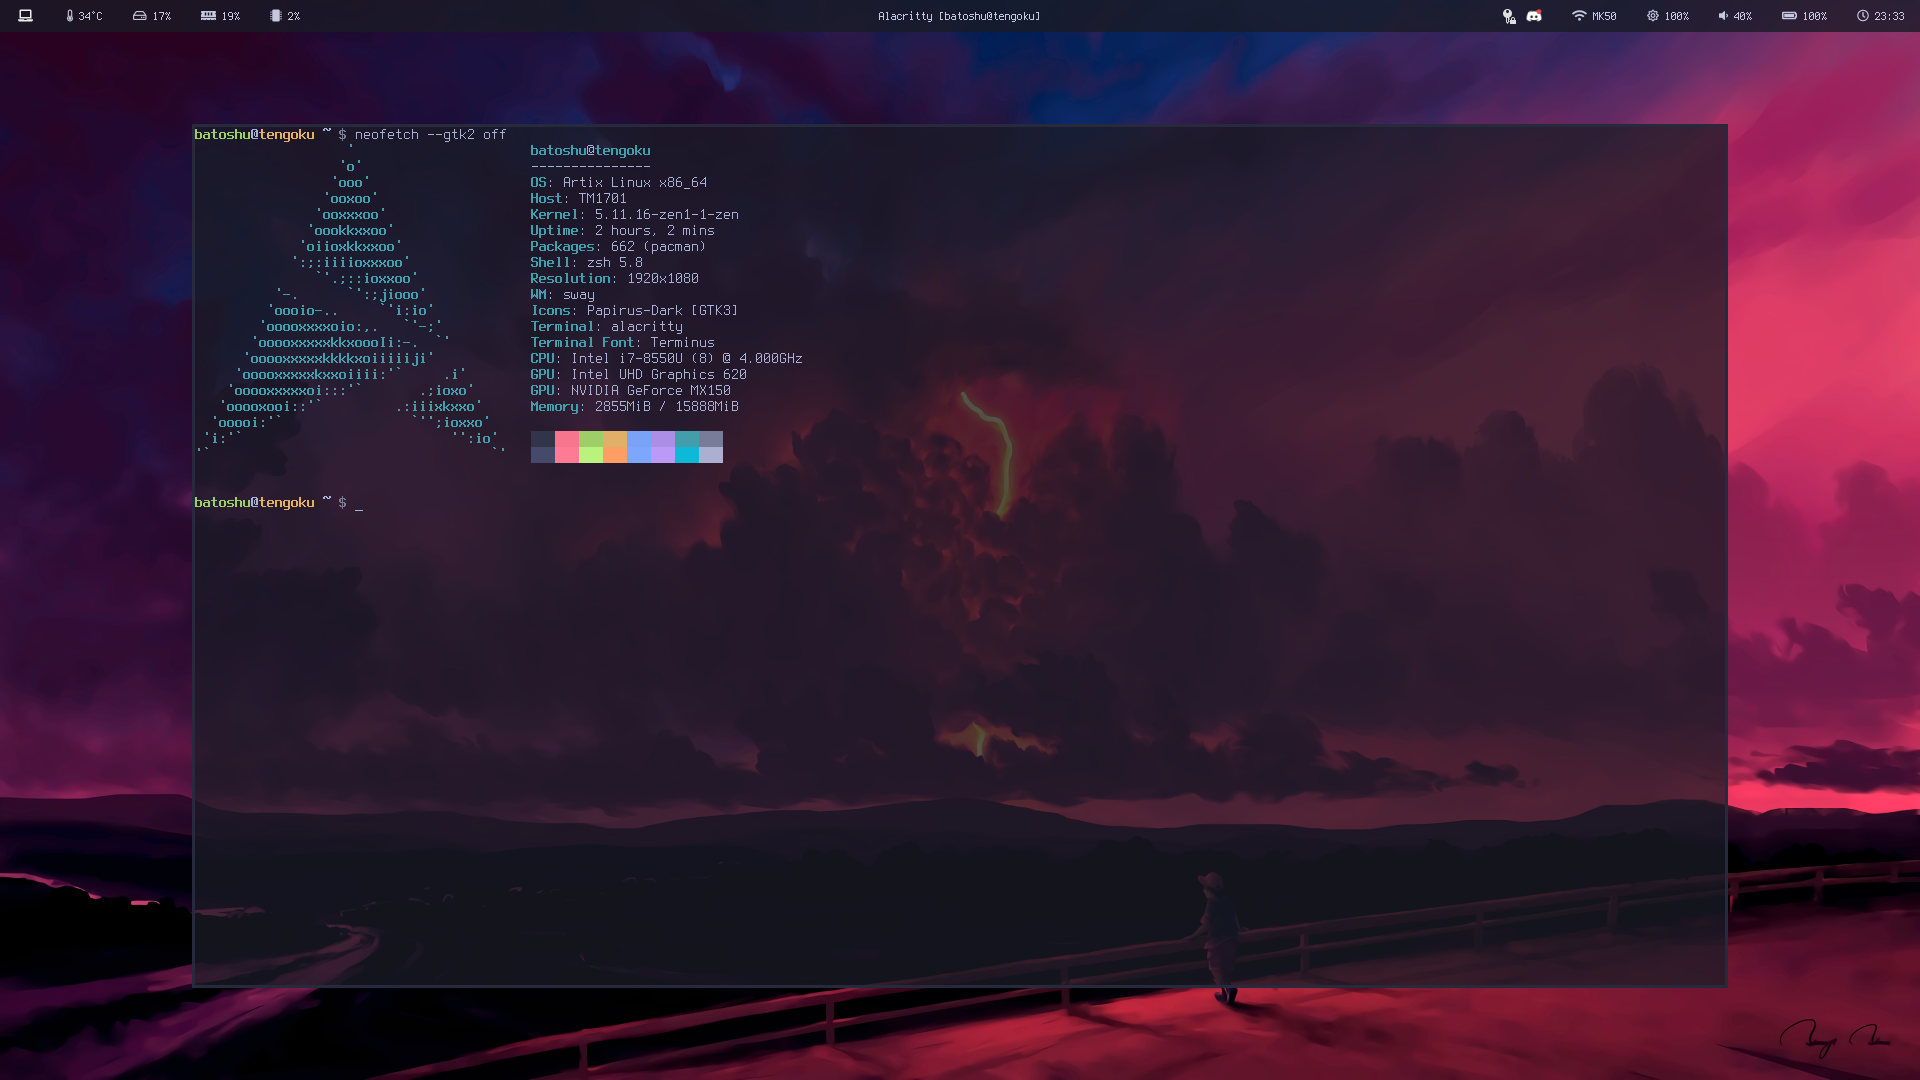
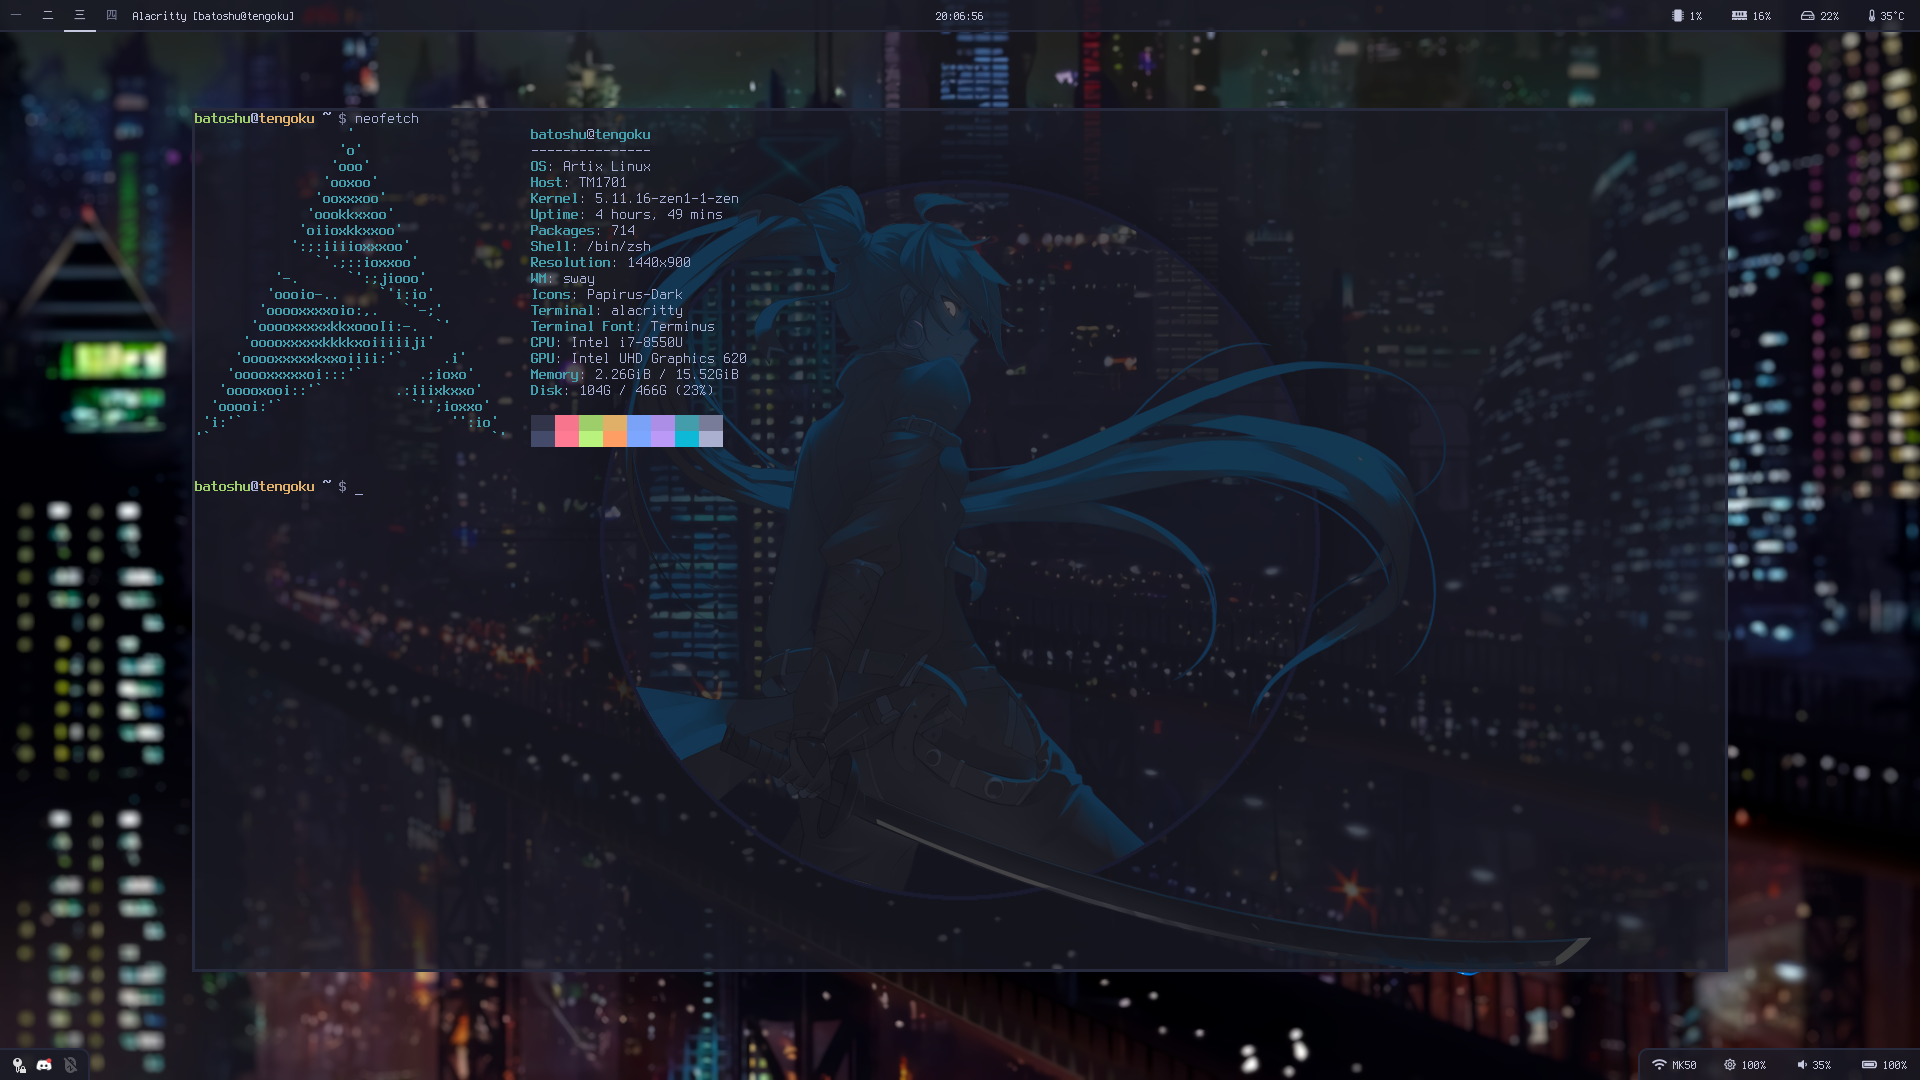
Wallpaper change

diff --git a/README.md b/README.md
@@ -61,4 +61,4 @@ papirus-icon-theme
 `linux-zen`
 
 # Wallpaper
-[Source](https://www.deviantart.com/bisbiswas/art/Storm-On-The-Way-871209944)
+[This](https://www.pixiv.net/en/artworks/86521170) + [this](https://www.pixiv.net/en/artworks/60194419)
